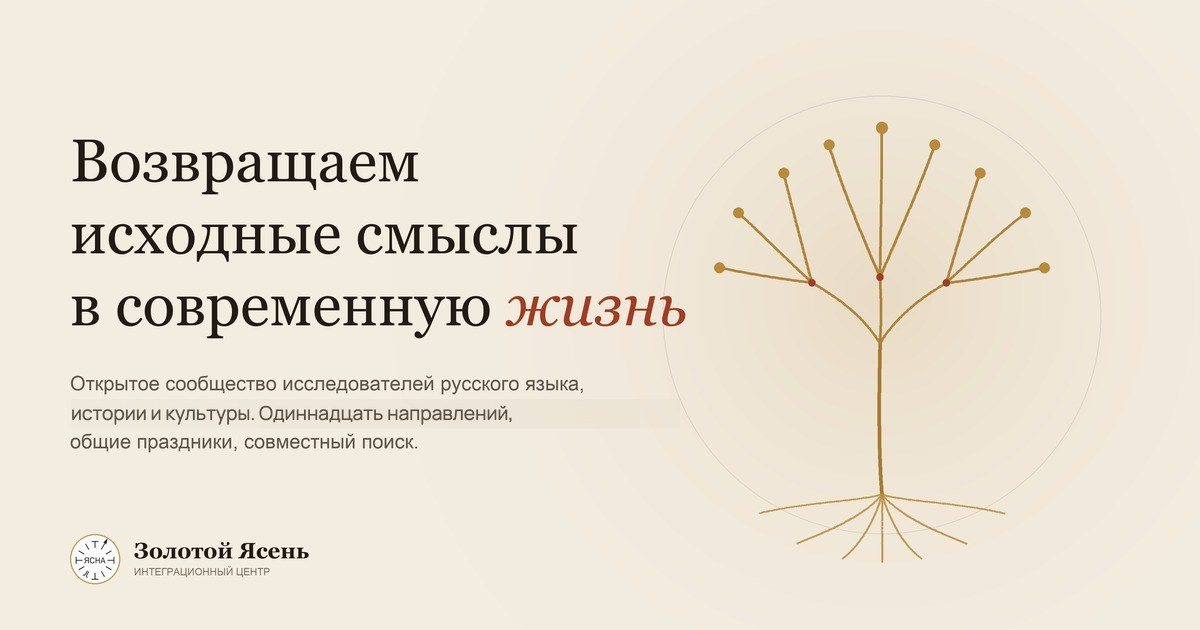
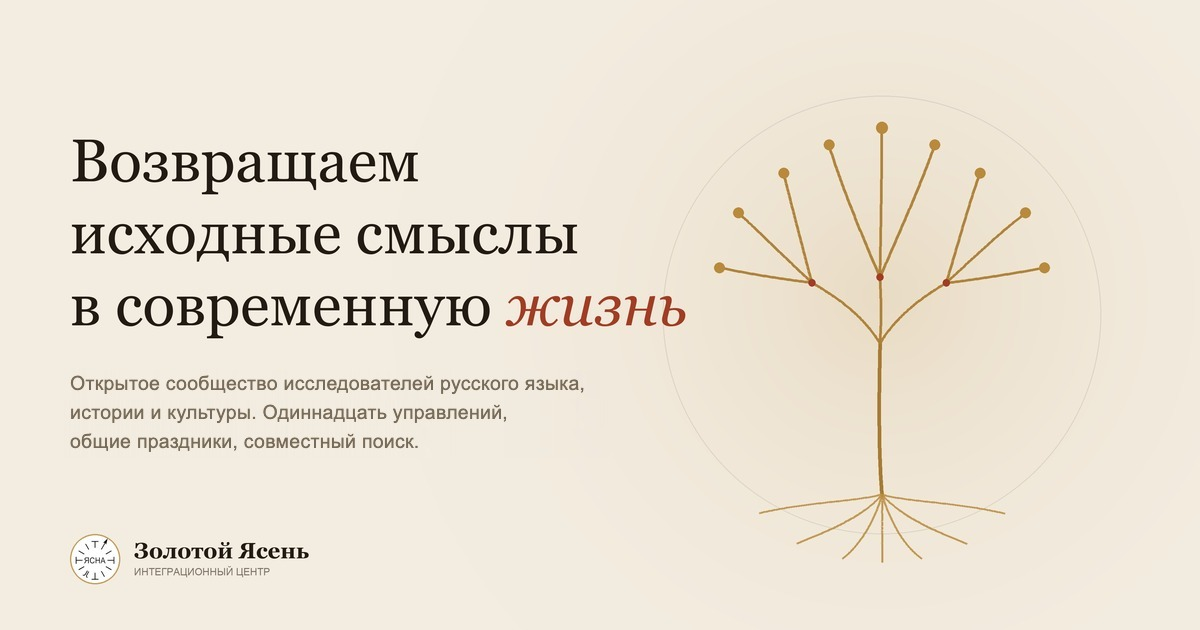
Обложка репоста: «Одиннадцать управлений» вместо «Девять направлений»
Заказчик заметил, что при пересылке в телеграм показывается «Русская Ясна»
и старое число. Мета-теги живой страницы верны везде — это кэш телеграма,
он перечитывает карточку только по запросу @WebpageBot. Но проверка нашла
две настоящие ошибки.

ОБЛОЖКА. На картинке src/img/og-cover.jpg лид оставался прежним:
«Девять направлений». Прошлая правка этой строки была сделана поверх
готовой картинки и оставила след — прямоугольник y 399–427 темнее фона
на 5 единиц, тянувшийся до x≈670. Поэтому вместо новой заплатки взята
чистая версия из коммита 0dc94a1 и перенабран весь лид целиком.

Почему целиком: подбор по среднеквадратичному отклонению от оригинала
показал, что строка, набранная одним шрифтом среди двух чужих, выбивается.
Параметры исходного набора восстановлены перебором — Arial 19.5px,
трекинг 0.28px, x=70, базовые линии 390/419/448 (шаг 29). Контроль:
ширина первой строки 585 против 582 в оригинале, вне лида ноль
отличающихся пикселей.

ОПИСАНИЕ. На архивной главной 1/index.html висело третье по счёту
описание — «11 управлений… совместные исследования». Приведено к тексту
лида сайта, как на остальных страницах.

Changed region(s): [[0.0617, 0.6032, 0.4933, 0.7238]]

diff --git a/1/index.html b/1/index.html
@@ -4,7 +4,7 @@
 <meta charset="utf-8"/>
 <meta name="viewport" content="width=device-width,initial-scale=1"/>
 <title>Золотой Ясень — исследования русской культуры</title>
-<meta name="description" content="Открытое сообщество исследователей русского языка, истории и культуры. 11 управлений, общие праздники, совместные исследования."/>
+<meta name="description" content="Открытое сообщество исследователей русского языка, истории и культуры. Одиннадцать управлений, общие праздники, совместный поиск."/>
 <link rel="preconnect" href="https://fonts.googleapis.com"/>
 <link rel="preconnect" href="https://fonts.gstatic.com" crossorigin/>
 <link href="https://fonts.googleapis.com/css2?family=Spectral:ital,wght@0,400;0,500;0,600;0,700;0,800;1,500;1,700&family=IBM+Plex+Sans:wght@400;500;600;700&family=IBM+Plex+Mono:wght@400;500;600&display=swap" rel="stylesheet"/>
@@ -17,7 +17,7 @@
 <meta property="og:locale" content="ru_RU"/>
 <meta property="og:site_name" content="Золотой Ясень"/>
 <meta property="og:title" content="Золотой Ясень — исследования русской культуры"/>
-<meta property="og:description" content="Открытое сообщество исследователей русского языка, истории и культуры. 11 управлений, общие праздники, совместные исследования."/>
+<meta property="og:description" content="Открытое сообщество исследователей русского языка, истории и культуры. Одиннадцать управлений, общие праздники, совместный поиск."/>
 <meta property="og:url" content="https://zolotoj-yasen.ru/1/index.html"/>
 <meta property="og:image" content="https://zolotoj-yasen.ru/src/img/og-cover.jpg"/>
 <meta property="og:image:width" content="1200"/>
